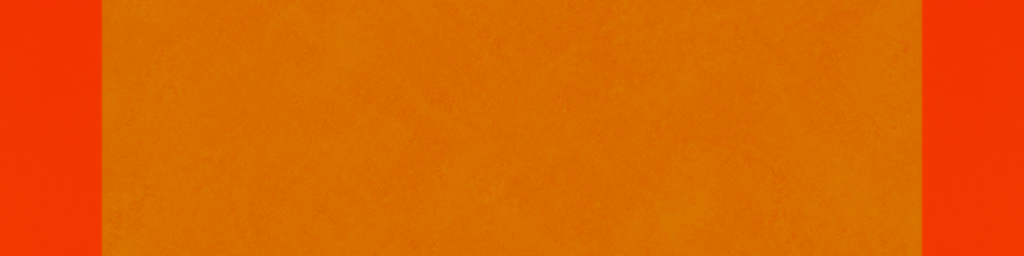
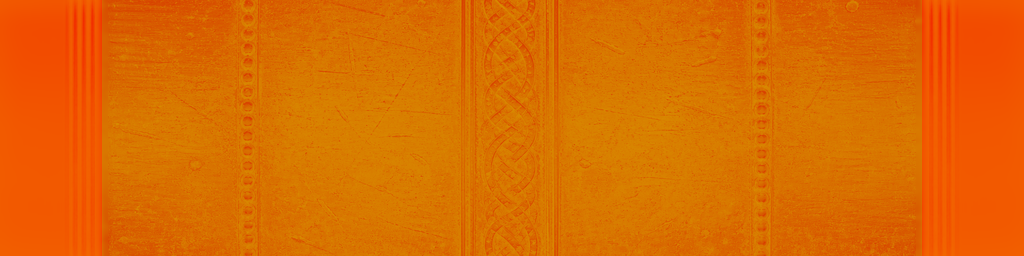
fix(core): the rods were inside out, and their textures were tiles pretending to be surfaces
Two user reports, and the first one was a real defect that nearly shipped.

THE WINDING WAS INVERTED — every face on every rod. Reported as "die Kappen sind
durch die Stangen hindurch sichtbar (respektiert Perspektive nicht)". A depth-test
view was added to the preview station, looking almost straight down the rod's
axis, where the far cap must be entirely hidden by the shaft. It was not: the knob
vanished and you looked straight through the bead ring into the shaft's interior.

Checked by hand rather than assumed. Take a unit cylinder quad — ring i at x=0,
ring i+1 at x=1, r=1, seg s at angle 0 and s+1 at a small e. Then i0=(0,1,0),
i1=(0,1,e), i2=(1,1,0), and the order (i0,i2,i1) gives (i2-i0)x(i1-i0)=(0,-e,0),
pointing INWARD at a point whose outward direction is +Y. Fixed by swapping to
(i0,i1,i2) / (i1,i3,i2).

IT WAS NEARLY INVISIBLE, and that is the part worth keeping. Back-culling a tube
removes the near wall and leaves the far wall's interior, and a textured tube looks
much the same either way — so the shaft read as correct from every hero angle for
five rounds. It only showed where a dome faces the camera head-on. And the WINDOW
rod hid it completely, because GloomhavenVR/Overlay defaults to _Cull = 0
(two-sided) and cheerfully drew the inside faces. Three of four rods were wrong and
the fourth was masking it.

That is the eighth mesh in this project wound against the side it is seen from.
[…]

diff --git a/scripts/grabbar-strips.py b/scripts/grabbar-strips.py
@@ -47,38 +47,78 @@ CS = os.path.join(ROOT, 'src', 'GloomhavenVR', 'Core', 'GrabBar.cs')
 
 W, H = 1024, 256
 
-SWATCH = ("A seamless tiling MATERIAL SWATCH, photographed flat and straight on, filling the whole "
-          "frame edge to edge. Orthographic, no perspective, no object, no background, no shadow, "
-          "no vignette, no text, no border, completely even flat lighting with no highlight and no "
-          "hotspot. This is an albedo map for a game engine: colour only. ")
+# ---------------------------------------------------------------------------------------------
+#  THE STRIPS ARE UNWRAPPED RODS, NOT MATERIAL SWATCHES.
+#
+#  The first set asked for six seamless material tiles and composited them. The user's verdict was
+#  that they were "deutlich besser" on the design sheet and that the rods needed "Details ...
+#  Dekorationen, Kratzer etc. ... immersiv und lebendig". A tile cannot carry any of that: it is
+#  uniform by definition, and uniform is exactly what reads as plastic.
+#
+#  So each rod's shaft is now generated as ITS OWN UNWRAP, with the layout stated to the model:
+#
+#      HORIZONTAL  = along the rod          (grain, scratches, wear run this way)
+#      VERTICAL    = around the circumference — so a decorative RING must be drawn as a
+#                    VERTICAL BAND, and anything drawn as a horizontal band would spiral
+#
+#  The aspect is deliberate too. The shaft band is 820 x 256 texels covering ~0.30 m along the rod
+#  and pi x 0.028 = 0.088 m around it, i.e. 2733 px/m against 2909 px/m — near enough isotropic. So
+#  the generated image is CROPPED to 3.2:1 rather than squashed into it; squashing would stretch
+#  every scratch by four.
+# ---------------------------------------------------------------------------------------------
+
+UNWRAP = ("A flat orthographic TEXTURE UNWRAP for a game asset, filling the entire frame edge to "
+          "edge with no border, no background, no perspective, no shadow, no vignette, no text and "
+          "no watermark. Completely even lighting: this is an albedo map, colour only, with no "
+          "baked highlight and no baked shadow. It is the surface of a slender turned HANDLE rod "
+          "unrolled flat: the HORIZONTAL axis runs ALONG the rod and the VERTICAL axis runs AROUND "
+          "its circumference, so any decorative ring must appear as a VERTICAL band spanning the "
+          "full height, and the grain must run HORIZONTALLY. ")
+
+WEAR = ("Make it lived-in and specific rather than uniform: fine scratches at shallow angles, a "
+        "few deeper nicks and chips, small dents, uneven staining, a subtly worn and darkened band "
+        "across the middle third where a hand has held it for years, and cleaner less-touched "
+        "surface toward the two ends. No two areas of the frame should look the same. ")
 
 SWATCHES = {
-    'sw_oak': SWATCH + ("Aged honey-brown oak, straight grain running strictly HORIZONTALLY across "
-                        "the frame, softly polished by handling, warm mid-brown with lighter and "
-                        "darker grain lines."),
-    'sw_steel': SWATCH + ("Cool blue-grey forged steel with a mottled cloudy patina and faint "
-                          "hammer marks, desaturated, no rust, no gold, no warm tones at all."),
-    'sw_bronze': SWATCH + ("Aged bronze: warm gold-brass base with blue-green verdigris settled "
-                           "into it in irregular patches, the way a handled bronze fitting "
-                           "patinates."),
-    'sw_walnut': SWATCH + ("Dark oiled walnut, fine straight grain running strictly HORIZONTALLY, "
-                           "deep neutral brown, quiet and even, nothing bright."),
-    'sw_brass': SWATCH + ("Aged tarnished brass, warm and slightly dull, faint fine scratches, "
-                          "darker in the micro-pits, not mirror polished."),
-    'sw_gold': SWATCH + ("Polished warm gold-brass, bright and clean with only faint wear, the "
-                         "colour of a well-kept gilt fitting."),
-    # ANTIQUE, not merely darker. The first strips used the bright sw_brass on the oak and walnut
-    # caps and they came out a pale yellow-olive next to the design sheet's DARK bronze knobs. That
-    # is a different material, not a brightness slider, so it gets its own swatch.
-    'sw_antique': SWATCH + ("Dark antique bronze, heavily tarnished to a deep brown-bronze with "
-                            "almost black recesses and only a faint warm sheen on the high points, "
-                            "the patina of an old door fitting nobody has polished in decades."),
+    'sw_oak': UNWRAP + WEAR + (
+        "Material: aged honey-brown oak, straight horizontal grain with darker medullary streaks. "
+        "Decoration: three narrow VERTICAL incised fillet lines, unevenly spaced, one of them "
+        "doubled, cut shallowly into the wood and slightly darkened in the groove. A short vertical "
+        "band of tiny chisel facets near one end. The wood is oiled, not painted."),
+
+    'sw_steel': UNWRAP + WEAR + (
+        "Material: cool blue-grey forged steel, mottled cloudy patina, faint hammer facets. "
+        "Decoration: two narrow VERTICAL bands of shallow diagonal knurling, and one plain raised "
+        "vertical collar line. Scattered small rust-brown pinpricks in the deeper pits. "
+        "Utilitarian and cold — no gold, no warm tones anywhere."),
+
+    'sw_bronze': UNWRAP + WEAR + (
+        "Material: aged bronze, warm gold-brass where handling has polished it and blue-green "
+        "verdigris crusted into everything that is not touched. Decoration: a VERTICAL band of "
+        "engraved interlaced knotwork, and two narrower vertical beaded lines elsewhere, all "
+        "filled with verdigris in the recesses and rubbed bright on the crowns."),
+
+    'sw_walnut': UNWRAP + WEAR + (
+        "Material: dark oiled walnut, fine horizontal grain, deep neutral brown, quiet. "
+        "Decoration: two narrow VERTICAL inlaid brass pinstripes, slightly tarnished, and a "
+        "sparse scatter of tiny brass pins. Restrained — this rod sits against a page of text and "
+        "must not shout."),
+
+    'sw_antique': UNWRAP + (
+        "Material: dark antique bronze, tarnished to a deep brown-bronze with nearly black "
+        "recesses and a faint warm sheen on the high points. Decoration: closely spaced fine "
+        "VERTICAL beading across the whole frame, like the knurled collar of an old door fitting, "
+        "with the tarnish heaviest between the beads. Small casting pits and a few bright rubbed "
+        "spots where a thumb would land."),
+
+    'sw_gold': UNWRAP + (
+        "Material: warm gilt bronze, softly polished, with age in it rather than showroom shine. "
+        "Decoration: closely spaced fine VERTICAL beading across the whole frame, the hollows "
+        "between the beads darkened with old tarnish and a trace of verdigris, the crowns rubbed "
+        "bright. A few fine scratches and one small dent."),
 }
 
-# Per-material shading, consumed by the MRS map. R = metallic, G = roughness — the packing
-# GloomhavenVR/BoardLit declares. Wood is dielectric and satin; the fittings are metal and
-# fairly tight. Without this map _SpecStrength has nothing to read and the rods render matte,
-# which is most of why the first set looked flat beside the sheet.
 # R = metallic, G = roughness.
 #
 # THE WOODS CARRY A SMALL METALLIC, AND THAT IS AN AUTHORING CHOICE, NOT A CLAIM ABOUT OAK.
@@ -138,7 +178,7 @@ def regenerate(swatch_dir):
         req = urllib.request.Request(
             'https://api.openai.com/v1/images/generations',
             data=json.dumps({'model': 'gpt-image-2', 'prompt': prompt,
-                             'size': '1024x1024', 'n': 1}).encode('utf-8'),
+                             'size': '1536x1024', 'n': 1}).encode('utf-8'),
             headers={'Authorization': 'Bearer ' + key, 'Content-Type': 'application/json'})
         try:
             with urllib.request.urlopen(req, timeout=600) as r:
@@ -149,23 +189,61 @@ def regenerate(swatch_dir):
         print('generated', name)
 
 
-def cap_fraction():
-    """Read ShaftU0 out of the C# so the layout cannot drift away from the mesh's UVs."""
+def cs_const(name):
+    """Read one float constant out of GrabBar.cs.
+
+    Every number this script needs about the mesh is READ, never re-typed. The band boundary, the
+    knob's arc and the cap's length all live in the C# because the mesh is authored there; a copy
+    here would be one more pair of numbers to keep in step, and this project has paid for that
+    shape of drift more than once.
+    """
     if not os.path.exists(CS):
         return None
-    m = re.search(r'ShaftU0\s*=\s*([0-9.]+)f', io.open(CS, encoding='utf-8').read())
+    m = re.search(name + r'\s*=\s*([0-9.]+)f', io.open(CS, encoding='utf-8').read())
     return float(m.group(1)) if m else None
 
 
+def cap_fraction():
+    return cs_const('ShaftU0')
+
+
+def dome_fraction():
+    """How much of the CAP band, in u, the smooth knob occupies — the rest is the beaded collar.
+
+    The cap's u runs from the dome's tip to the shoulder across CapLengthInRadii, and the dome
+    itself is DomeRadius x (1 - cos(sweep)) long. Without this split the beading generated for the
+    collar is painted across the whole cap, and the knob renders as a beehive instead of the smooth
+    ball the design sheet shows.
+    """
+    dome_r = cs_const('DomeRadius')
+    sweep = cs_const('DomeSweepDegrees')
+    cap_len = cs_const('CapLengthInRadii')
+    if None in (dome_r, sweep, cap_len) or cap_len <= 0:
+        return None
+    return (dome_r * (1.0 - math.cos(math.radians(sweep)))) / cap_len
+
+
 def band(swatch_dir, name, width, height):
-    """Centre-crop-and-scale one swatch to a band. Never squashes: a squashed grain reads wrong."""
+    """Crop one unwrap to the band's aspect, then scale. NEVER squashes.
+
+    The generated unwraps are near-square; a shaft band is 3.2:1. Resizing straight to the band
+    would stretch every scratch and every incised line by a factor of four along the rod, which is
+    precisely the smeared, characterless look this whole pass exists to remove. So the largest
+    region of the SOURCE aspect is cropped first and only then scaled.
+    """
     im = grade(Image.open(os.path.join(swatch_dir, name + '.png')).convert('RGB'), name)
     sw, sh = im.size
-    scale = max(width / sw, height / sh)
-    im = im.resize((max(1, int(sw * scale)), max(1, int(sh * scale))), Image.LANCZOS)
-    sw, sh = im.size
-    left, top = (sw - width) // 2, (sh - height) // 2
-    return im.crop((left, top, left + width, top + height))
+    want = width / float(height)
+    have = sw / float(sh)
+    if have > want:                       # source too wide -> trim its sides
+        nw = int(round(sh * want))
+        left = (sw - nw) // 2
+        im = im.crop((left, 0, left + nw, sh))
+    else:                                 # source too tall -> trim top and bottom
+        nh = int(round(sw / want))
+        top = (sh - nh) // 2
+        im = im.crop((0, top, sw, top + nh))
+    return im.resize((width, height), Image.LANCZOS)
 
 
 # A per-swatch albedo grade: (gain, saturation). The generated oak came back a bright saturated
@@ -200,6 +278,38 @@ def grade(img, name):
                         min(255, max(0, int(g * gain))),
                         min(255, max(0, int(b * gain))))
     return img
+
+
+def cap_band(swatch_dir, name, width, height, dome_frac):
+    """The cap's strip: a SMOOTH knob, then the beaded collar.
+
+    The generated cap unwraps are beaded edge to edge, which is right for the collar and wrong for
+    the ball — painted across the dome it renders as a beehive. The dome's share of the band is
+    computed from the mesh's own constants, and over that stretch the beading is dissolved away
+    with a heavy blur, leaving the material (tarnish, pits, rubbed spots) but not the ridges. A
+    short crossfade keeps the join from reading as a hard edge.
+    """
+    sharp = band(swatch_dir, name, width, height)
+    smooth = sharp.filter(ImageFilter.GaussianBlur(max(2.0, width * 0.10)))
+    out = sharp.copy()
+    px_out = out.load()
+    px_s = smooth.load()
+    px_h = sharp.load()
+    dome_px = dome_frac * width
+    fade = max(1.0, width * 0.10)
+    for x in range(width):
+        # 1 at the tip (all smooth), 0 past the crossfade (all beading).
+        t = 1.0 - min(1.0, max(0.0, (x - (dome_px - fade)) / fade))
+        if t >= 0.999:
+            for y in range(height):
+                px_out[x, y] = px_s[x, y]
+        elif t > 0.001:
+            for y in range(height):
+                a, b = px_s[x, y], px_h[x, y]
+                px_out[x, y] = (int(a[0] * t + b[0] * (1 - t)),
+                                int(a[1] * t + b[1] * (1 - t)),
+                                int(a[2] * t + b[2] * (1 - t)))
+    return out
 
 
 def bake_round(img):
@@ -326,19 +436,23 @@ def main():
     frac = cap_fraction()
     if frac is None:
         sys.exit('GrabBarMesh.ShaftU0 not parseable — refusing to guess the band boundary.')
+    dome_frac = dome_fraction()
+    if dome_frac is None:
+        sys.exit('GrabBarMesh dome constants not parseable — refusing to guess where the knob ends.')
     cap_px = int(round(W * frac))
+    print(f'dome occupies {dome_frac:.3f} of the cap band -> smooth knob, beaded collar')
     print(f'ShaftU0={frac} -> cap band {cap_px} px of {W}')
 
     os.makedirs(OUT, exist_ok=True)
     for name, shaft_sw, cap_sw, round_bake in STRIPS:
         img = Image.new('RGB', (W, H))
         shaft_w = W - 2 * cap_px
-        img.paste(band(args.swatches, cap_sw, cap_px, H), (0, 0))
+        img.paste(cap_band(args.swatches, cap_sw, cap_px, H, dome_frac), (0, 0))
         img.paste(band(args.swatches, shaft_sw, shaft_w, H), (cap_px, 0))
         # The far cap is the near cap MIRRORED, so both ends carry the same material and the wrap
         # at u=1 meets u=0 on identical pixels.
-        img.paste(band(args.swatches, cap_sw, cap_px, H).transpose(Image.FLIP_LEFT_RIGHT),
-                  (W - cap_px, 0))
+        img.paste(cap_band(args.swatches, cap_sw, cap_px, H, dome_frac)
+                  .transpose(Image.FLIP_LEFT_RIGHT), (W - cap_px, 0))
         # Feather the two band joins so no mip level shows a hard vertical line where the materials
         # meet.
         for x in (cap_px, W - cap_px):

diff --git a/src/GloomhavenVR/Core/GrabBar.cs b/src/GloomhavenVR/Core/GrabBar.cs
@@ -390,8 +390,25 @@ namespace GloomhavenVR.Core
                     int i1 = i0 + 1;
                     int i2 = i0 + stride;
                     int i3 = i2 + 1;
-                    tris.Add(i0); tris.Add(i2); tris.Add(i1);
-                    tris.Add(i1); tris.Add(i2); tris.Add(i3);
+                    // WINDING — checked by hand, not assumed, because this is the eighth mesh in
+                    // this project to be built wound against the side it is seen from and the
+                    // first seven all shipped.
+                    //
+                    // Take a unit cylinder quad: ring i at x=0, ring i+1 at x=1, r=1, seg s at
+                    // angle 0 and s+1 at a small e. Then i0=(0,1,0), i1=(0,1,e), i2=(1,1,0), and
+                    // the ORIGINAL order (i0,i2,i1) gives (i2-i0)x(i1-i0) = (0,-e,0) — pointing
+                    // INWARD at a point whose outward direction is +Y. Every face on every rod was
+                    // therefore back-facing.
+                    //
+                    // IT WAS NEARLY INVISIBLE, which is why it needs the note. Back-culling a tube
+                    // removes the near wall and leaves the far wall's interior, and a textured tube
+                    // looks much the same either way — so the shaft read as correct from every
+                    // angle. It only showed where a dome faces the camera head-on: the knob
+                    // vanished and you looked straight through the bead ring into the shaft. The
+                    // WINDOW rod hid it completely, because GloomhavenVR/Overlay defaults to
+                    // _Cull = 0 (two-sided) and drew the inside faces anyway.
+                    tris.Add(i0); tris.Add(i1); tris.Add(i2);
+                    tris.Add(i1); tris.Add(i3); tris.Add(i2);
                 }
             }
         }

diff --git a/unity/GloomhavenVR.Assets/Assets/Editor/PreviewGrabBar.cs b/unity/GloomhavenVR.Assets/Assets/Editor/PreviewGrabBar.cs
@@ -80,11 +80,17 @@ namespace GloomhavenVR
                 bool overlay = style == "generic";
                 Shoot(style, overlay, BoardBarLength, "long", outDir);
                 Shoot(style, overlay, ShortBarLength, "short", outDir);
+                // A DEPTH TEST, not a beauty shot. Looking almost straight down the rod's axis,
+                // the FAR cap is entirely behind the shaft and must be completely invisible. If any
+                // part of it shows, the pieces are not depth-sorting against each other and the rod
+                // is drawing itself inside out — which is what a user reported seeing.
+                Shoot(style, overlay, BoardBarLength, "axial", outDir, axial: true);
             }
             Debug.Log("[GrabBarPreview] done.");
         }
 
-        private static void Shoot(string style, bool overlay, float length, string tag, string outDir)
+        private static void Shoot(string style, bool overlay, float length, string tag,
+                                  string outDir, bool axial = false)
         {
             var root = new GameObject("GrabBarPreviewRoot");
             try
@@ -157,7 +163,9 @@ namespace GloomhavenVR
                 // reference compares two different pictures and flatters neither: foreshortening
                 // is what shows a rod's taper, and an oblique view is the only one where the
                 // knob's ball reads as a ball.
-                camGo.transform.position = new Vector3(dist * 0.42f, dist * 0.30f, -dist * 0.86f);
+                camGo.transform.position = axial
+                    ? new Vector3(dist * 0.97f, dist * 0.12f, -dist * 0.21f)
+                    : new Vector3(dist * 0.42f, dist * 0.30f, -dist * 0.86f);
                 camGo.transform.LookAt(Vector3.zero);
 
                 var rt = new RenderTexture(rtW, rtH, 24);
